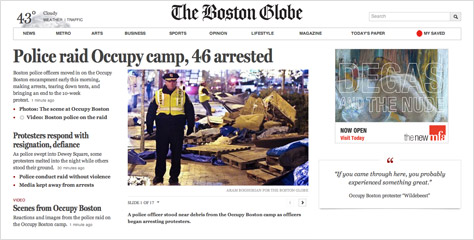
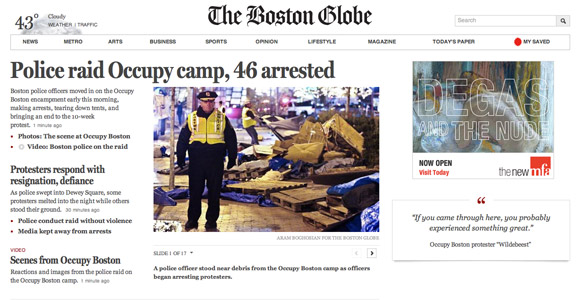
updated example images

diff --git a/index.html b/index.html
@@ -69,13 +69,13 @@
 	<div class="slide where" id="where2">
 		<a href="http://www.bostonglobe.com" class="img-link">
 			<div class="img-wrap img-inline" id="img-bg-s">
-				<img src="img/bostonglobe_s.jpg" />
+				<img src="img/bostonglobe_s.jpg" class="img-border" />
 			</div>
 			<div class="img-wrap img-inline" id="img-bg-m">
-				<img src="img/bostonglobe_m.jpg" />
+				<img src="img/bostonglobe_m.jpg" class="img-border" />
 			</div>
 			<div class="img-wrap img-inline" id="img-bg-l">
-				<img src="img/bostonglobe_l.jpg" />
+				<img src="img/bostonglobe_l.jpg" class="img-border" />
 			</div>
 		</a>
 		<h2>The Boston Globe</h2>
@@ -98,20 +98,50 @@
 	</div>
 	
 	<div class="slide where" id="where4">
+		<a href="http://clearairchallenge.com" class="img-link">
+			<div class="img-wrap img-inline" id="img-clean-s">
+				<img src="img/clean_s.jpg" />
+			</div>
+			<div class="img-wrap img-inline" id="img-clean-m">
+				<img src="img/clean_m.jpg" />
+			</div>
+			<div class="img-wrap img-inline" id="img-clean-l">
+				<img src="img/clean_l.jpg" />
+			</div>
+		</a>
 		<h2>Clean Air Commute Challenge</h2>
 		<p>Promo site</p>
 		<a href="http://clearairchallenge.com">clearairchallenge.com</a>
 	</div>
 	
 	<div class="slide where" id="where5">
+		<a href="http://sasquatchfestival.com" class="img-link">
+			<div class="img-wrap img-inline" id="img-sas-s">
+				<img src="img/sas_s.jpg" />
+			</div>
+			<div class="img-wrap img-inline" id="img-sas-l">
+				<img src="img/sas_l.jpg" />
+			</div>
+		</a>
 		<h2>Sasquatch Music Festival</h2>
 		<p>Event site</p>
 		<a href="http://sasquatchfestival.com">sasquatchfestival.com</a>
 	</div>
 	
 	<div class="slide where" id="where6">
+		<a href="http://www.barackobama.com" class="img-link">
+			<div class="img-wrap img-inline" id="img-obama-s">
+				<img src="img/obama_s.jpg" class="img-border" />
+			</div>
+			<div class="img-wrap img-inline" id="img-obama-m">
+				<img src="img/obama_m.jpg" class="img-border" />
+			</div>
+			<div class="img-wrap img-inline" id="img-obama-l">
+				<img src="img/obama_l.jpg" class="img-border" />
+			</div>
+		</a>
 		<h2>Barack Obama</h2>
-		<p>Obama&rsquo;s team has consistently been at the leading edge of web technology.</p>
+		<p>The Obama campaign continues to be at the leading edge of web technology.</p>
 		<a href="http://www.barackobama.com">barackobama.com</a>
 	</div>
 	
@@ -121,7 +151,7 @@
 	</div>
 	
 	<div class="slide" id="when1">
-		<h1>When Do We Use It?</h1>
+		<h1>When To Use It?</h1>
 		<h2>Things to Consider</h2>
 		<ul>
 			<li>Time &amp; Money</li>
@@ -176,6 +206,9 @@
 		<h4>Tuts+</h4>
 		<p>Some of the best web design tutorials and articles around.</p>
 		<a href="http://webdesign.tutsplus.com/articles/design-theory/designing-for-a-responsive-web/">webdesign.tutsplus.com</a>
+		<h4>Responsive News</h4>
+		<p>A news blog about responsive design.</p>
+		<a href="http://blog.responsivenews.co.uk/">blog.responsivenews.co.uk</a>
 	</div>
 	
 	<div class="slide who" id="who4">

diff --git a/css/style.css b/css/style.css
@@ -85,6 +85,7 @@ img {
 	color: #999;
 	font-size: 16px;
 	font-size: 1.6rem;
+	font-style: normal;
 }
 
 .current, a.nav-button:hover {
@@ -214,7 +215,22 @@ img {
 	font-size: 2rem;
 }
 
-#when1 ul, #when1 h2 {
+#when1 {
+	padding: 60px 0 200px;
+	padding: 6rem 0 20rem;
+}
+
+#when1 h1, #when1 h2 {
+	margin: 12px;
+	margin: 1.2rem;
+}
+
+#when1 h2 {
+	font-size: 36px;
+	font-size: 3.6rem; 
+}
+
+#when1 ul  {
 	margin: 0;
 }
 
@@ -284,6 +300,21 @@ img {
 	padding: .3rem;
 }
 
+#credits h3, #credits h4 {
+	margin: 2.4rem 0 .6rem;
+}
+
+#credits h4 {
+	font-size: 18px;
+	font-size: 1.8rem;
+}
+
+#credits p {
+	margin: 0;
+	font-size: 18px;
+	font-size: 1.8rem;
+}
+
 /*------------------------  IMAGES  */
 
 /* width % is width of img / 1280 px (target screen width)  */
@@ -302,6 +333,10 @@ img {
 	text-decoration: none;
 }
 
+.img-border {
+	border: solid 1px #ddd;
+}
+
 #img-responsive {
 	width: 50.47%;
 }
@@ -311,15 +346,15 @@ img {
 }
 
 #img-bg-s {
-	width: 11.09%;
+	width: 13.83%;
 }
 
 #img-bg-m {
-	width: 22.89%;
+	width: 28.59%;
 }
 
 #img-bg-l {
-	width: 37.03%;
+	width: 45.31%;
 }
 
 #img-illy-s {
@@ -330,6 +365,37 @@ img {
 	width: 46.09%;
 }
 
+#img-clean-s {
+	width: 15%;
+}
+
+#img-clean-m {
+	width: 31.01%;
+}
+
+#img-clean-l {
+	width: 40.08%;
+}
+
+#img-sas-s {
+	width: 16.95%;
+}
+
+#img-sas-l {
+	width: 48.44%;
+}
+
+#img-obama-s {
+	width: 12.66%;
+}
+
+#img-obama-m {
+	width: 30.39%;
+}
+
+#img-obama-l {
+	width: 36.8%;
+}
 
 /*------------------------  BASE-REM SIZING  */
 
